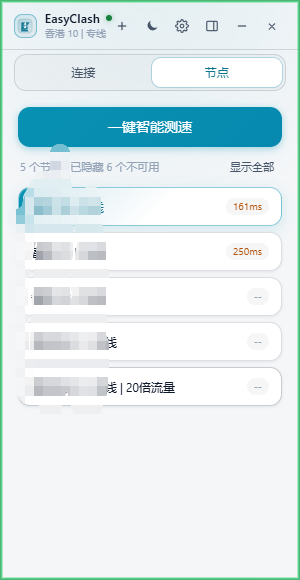
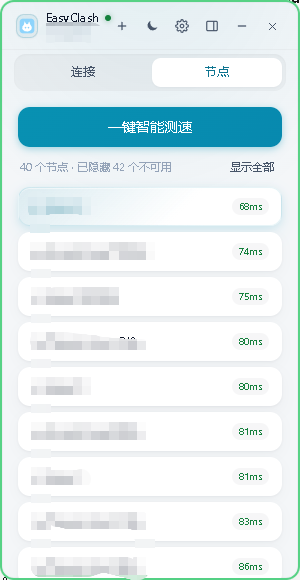
Update README screenshots and add promotional composite image.
Replace UI screenshots, add sidebar capture and promo banner for marketing, plus a script to regenerate the composite.

diff --git a/README.md b/README.md
@@ -4,11 +4,15 @@
 
 极简桌面代理客户端：打开开关即可代理，一键测速并选择延迟最低的节点。
 
+![EasyClash 宣传图](docs/screenshots/promo.png)
+
 ![连接页](docs/screenshots/home.png)
+
+![节点页](docs/screenshots/nodes.png)
 
 ![设置页](docs/screenshots/settings.png)
 
-![节点页](docs/screenshots/nodes.png)
+![侧边栏](docs/screenshots/dock.png)
 
 技术栈：Go + Wails v2 + Vue 3 + Pinia + TailwindCSS，底层引擎为 [mihomo](https://github.com/MetaCubeX/mihomo)（Clash.Meta）。安装包已内置 `mihomo.exe`；如果只用绿色版 exe，需要自行把内核放到同一目录。
 
